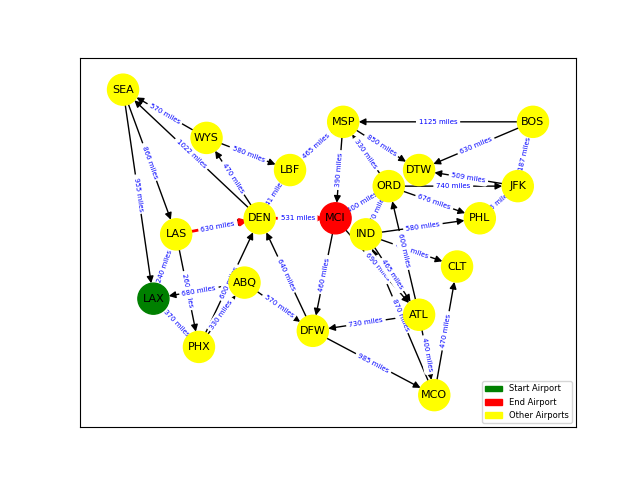
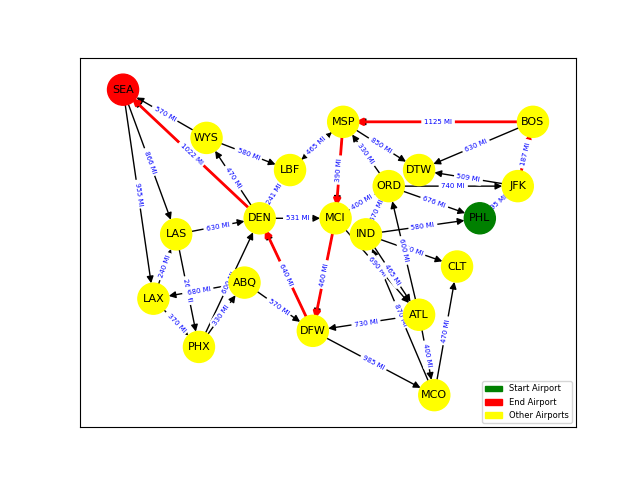
Changed Miles to "MI"

diff --git a/FlightNetwork.py b/FlightNetwork.py
@@ -142,7 +142,7 @@ path_edges = list(zip(shortest_path, shortest_path[1:]))
 nx.draw_networkx_edges(G, pos = positions, edgelist = path_edges, edge_color = "red",width = 2)
 
 # edge_labels = {(u, v): f"{d['weight']} miles" for u, v, d in G.edges(data=True)}
-edge_labels = {(u, v): f"{d.get('weight', 'N/A')} miles" for u, v, d in G.edges(data=True)}
+edge_labels = {(u, v): f"{d.get('weight', 'N/A')} MI" for u, v, d in G.edges(data=True)}
 nx.draw_networkx_edge_labels(G, pos = positions, edge_labels=edge_labels, font_size = 5, font_color="blue")
 
 # Add legend
